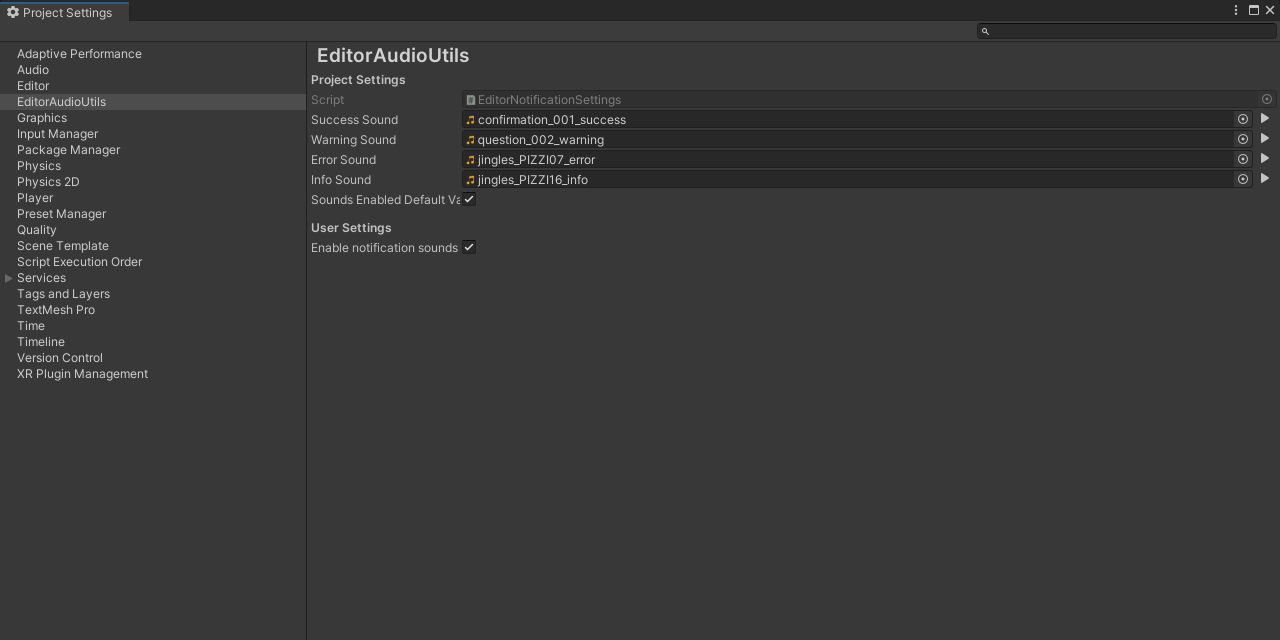
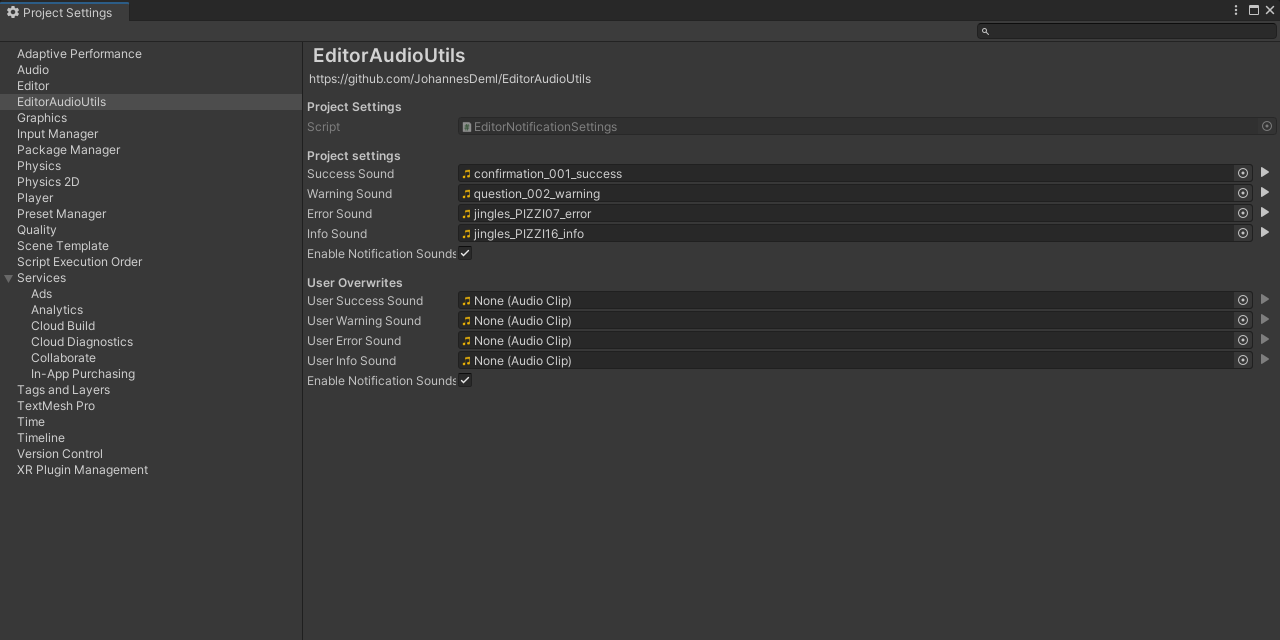
Update to 1.1.0

diff --git a/README.md b/README.md
@@ -21,7 +21,7 @@ or download the [Latest Unity Packages](../../releases/latest)
 * Play custom notification sounds through a simple API
 * Play, Pause, Resume and stop any AudioClip in the editor without the need of an AudioSource
 * Handle different internal Unity API from Unity 2019 onwards
-* Disable notification sounds through EditorPrefs (therefore, each user can decide if they want the sounds or not)
+* Disable or overwrite notification sounds through EditorPrefs. This way each user can decide if and what notification settings they want, while the project itself contains the default settings.
 
 ## API
 
@@ -30,7 +30,7 @@ Play a predefined notification sound:
 EditorAudioUtility.PlayNotificationSound(EditorNotificationSound type);
 ```
 
-Access other internal [AudioUtil](https://github.com/Unity-Technologies/UnityCsReference/blob/master/Editor/Mono/Audio/Bindings/AudioUtil.bindings.cs) methods:
+Access other internal [AudioUtil](https://github.com/Unity-Technologies/UnityCsReference/blob/master/Editor/Mono/Audio/Bindings/AudioUtil.bindings.cs) methods ([EditorAudioUtility](../../main/Scripts/Editor/EditorAudioUtility.cs)):
 ```csharp
 // Play clip
 EditorAudioUtility.PlayPreviewClip(AudioClip audioClip);
@@ -50,5 +50,5 @@ EditorAudioUtility.StopAllPreviewClips();
 ## License
 
 * MIT - see [LICENSE](./LICENSE.md)
-* Sounds in Sample are from [Kenneys Assets](https://kenney.nl/) (CC0)
+* Sounds in Sample are from [Kenney](https://kenney.nl/) (CC0)
 
